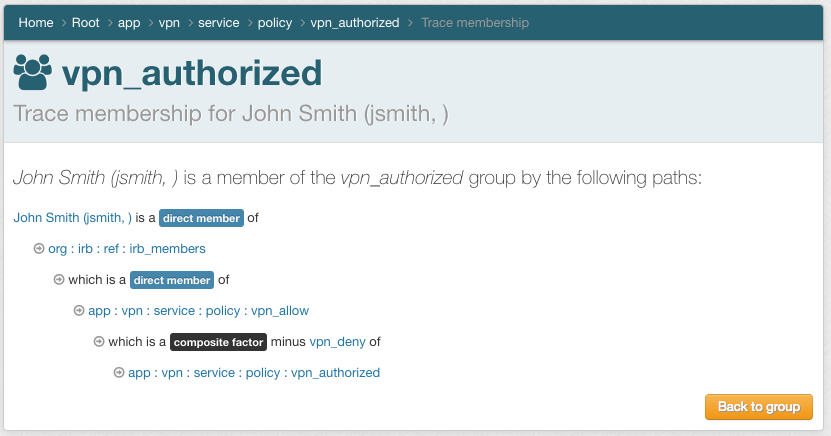
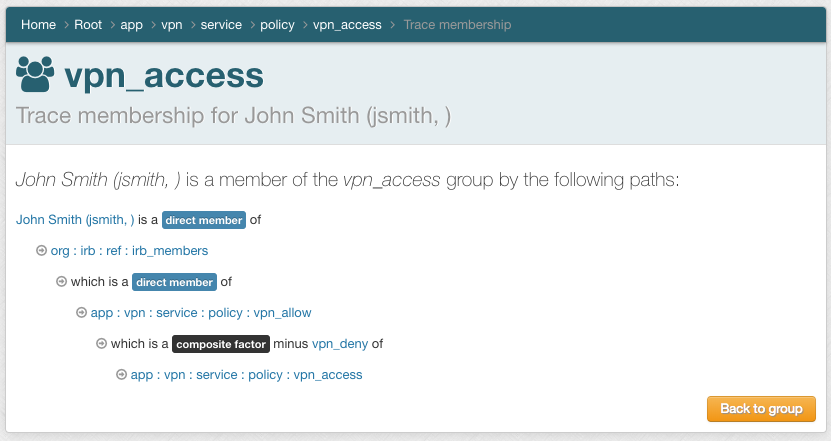
updates for 201.1 and 201.2

diff --git a/docs/201/201.1.rst b/docs/201/201.1.rst
@@ -57,13 +57,13 @@ to students.
 Exercise 201.1.1 All students reference group
 ---------------------------------------------
 
-*Create an all student reference group to be used in access policy and the all
-students mailing list*
+Create an all student reference group to be used in access policy and the "all
+students" mailing list.
 
-Reference groups for student by class year already exist. These are being used
-for class year mailing lists. Membership in the class year groups are updated
-automatically by the studentTermLoader job. The loader job queries the student
-information system.
+Reference groups for students by class year already exist in `ref:student`.
+These are being used for class year mailing lists. Membership in the class year
+groups are updated automatically by the studentTermLoader job. The loader job
+queries the student information system.
 
 1. Create a new group named `ref:student:students`.
    (+ Create new group)
@@ -75,7 +75,7 @@ information system.
 
 .. figure:: ../figures/201-add-ref-students.png
 
-3. Add the following class year reference groups to `..:students`.
+3. Add the following class year reference groups to `students`.
    (Members -> + Add members -> ...)
 
 * `ref:student:class2020`
@@ -84,7 +84,7 @@ information system.
 * `ref:student:class2023`
 
 4. Filter for: Has direct membership. This shows all the reference groups that
-   contribute to the '..:students' group.
+   contribute to the `students` group.
 
 .. figure:: ../figures/201-students-direct-membership.png
 
@@ -140,14 +140,16 @@ Exercise 201.1.4 Transfer Students
 Students who transfer to your campus often need access to systems well ahead
 of SIS data being fully updated.
 
-#. Create a new basis group, `basis:student:transfer_student`.
+#. Create a new basis group `basis:student:transfer_student` and add it to
+   `students`
+
 #. Add the following accounts to `transfer_student`:
 
-    * agrady901
-    * alee467
-    * ascott776
+* pmartinez921
+* cthompson287
+* agrady901
 
-#. Check how many students there are now. The number of students did not go
+3. Check how many students there are now. The number of students did not go
    up by 3 as you might have expected. Why? One of the transfer students was
    already a member of `students`. Trace the membership on each of the
    transfer students to determine which accounts already had the `students`
@@ -157,8 +159,8 @@ of SIS data being fully updated.
 Exercise 201.1.5 Change of Status
 ---------------------------------
 
-Students who leave for a variety of reasons are given a 32 day grace period
-during which they retain student access.  Basis groups for these already exist.
+Students who leave for a variety of reasons are given a 32 day grace period,
+during which they retain student access. Basis groups for these already exist.
 They include:
 
 * `basis:student:expelled_32_days`
@@ -166,6 +168,8 @@ They include:
 * `basis:student:student_transferred_32_days`
 
 #. Add these basis groups to `students`.  How many students are there now?
+
+.. figure:: ../figures/201-students-change-of-status.png
 
 ------------------------------------------
 Exercise 201.1.6 Leave of Absence Students

diff --git a/docs/201/201.2.rst b/docs/201/201.2.rst
@@ -63,19 +63,17 @@ create a new structure for our VPN service policy.
 
 3. Navigate to the `app:vpn:service:policy` folder
 
-4. Create a new vpn_authorized policy group using the Policy Group Template
+4. Create a new vpn_access policy group using the Policy Group Template
    (More actions -> New template)
 
 .. figure:: ../figures/201-new-vpn-policy.png
 
-[ this should be replaced with policy template when ready ]
+TODO: Steps 5 through 8 should be replaced with policy template when ready
 
-5. Create `app:vpn:vpn_authorized`.
+5. Create `app:vpn:vpn_access`.
 6. Create `app:vpn:vpn_allow`.
 7. Create `app:vpn:vpn_deny`.
-8. Make `vpn_authorized` a composite of `vpn_allow` minus `vpn_deny`.
-
-.. figure:: ../figures/201-vpn-composite.png
+8. Make `vpn_access` a composite of `vpn_allow` minus `vpn_deny`.
 
 -------------------------------------------------------------------
 Exercise 201.2.2 Create digital policy from natural language policy
@@ -88,10 +86,10 @@ are already available.
 #. Add `ref:employee:fac_staff` to `vpn_allow`.
 #. Add `ref:security:locked_by_ciso` to `vpn_deny`.
 #. Add `ref:iam:closure` to `vpn_deny`.
-#. Review the `vpn_authorized` policy definition
-   (vpn_authorized -> More actions -> Visualization)
+#. Review the `vpn_access` policy definition
+   (vpn_access -> More actions -> Visualization)
 
-.. figure:: ../figures/201-vpn-authorized.png
+.. figure:: ../figures/201-vpn-access.png
 
 ----------------------------------------------------------------------------
 Exercise 201.2.3 Update policy to include institutional review board members
@@ -103,7 +101,7 @@ account is in a closure state".
 
 #. Add `org:irb:ref:irb_members` to `vpn_allow`.
 #. Add *jsmith* to `org:irb:ref:irb_members`.
-#. Trace membership for *jsmith* from `vpn_authorized`. (jsmith -> Choose
+#. Trace membership for *jsmith* from `vpn_access`. (jsmith -> Choose
    action -> Actions -> Trace membership)
 
 .. figure:: ../figures/201-jsmith-trace.png
@@ -113,10 +111,10 @@ account is in a closure state".
 
 .. figure:: ../figures/201-vpn-allow-audit.png
 
-5. Review policy definition for `vpn_authorized`.
-   (vpn_authorized -> More actions -> Visualization)
+5. Review policy definition for `vpn_access`.
+   (vpn_access -> More actions -> Visualization)
 
-.. figure:: ../figures/201-vpn-authorized2.png
+.. figure:: ../figures/201-vpn-access2.png
 
 ------------------------------------------------------------
 Exercise 201.2.4 Review Application template security groups
